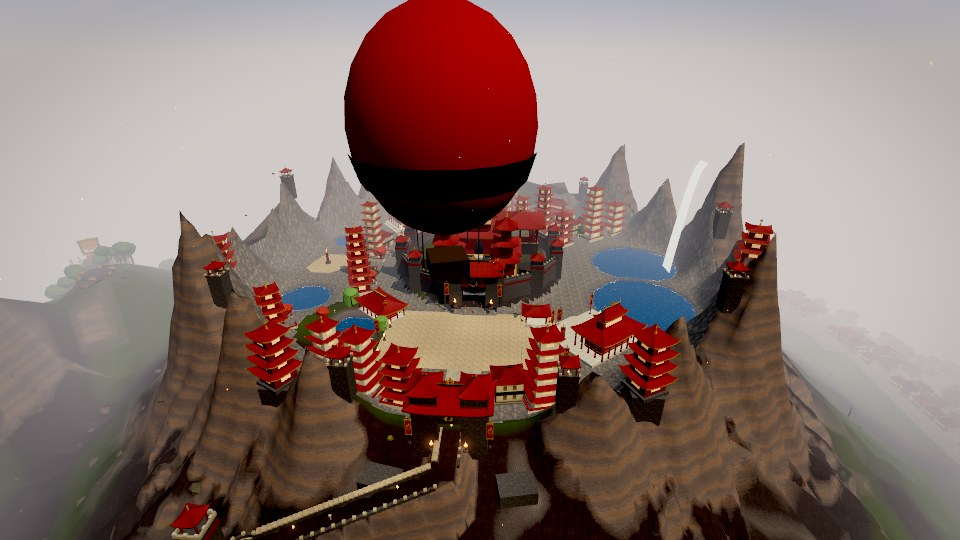
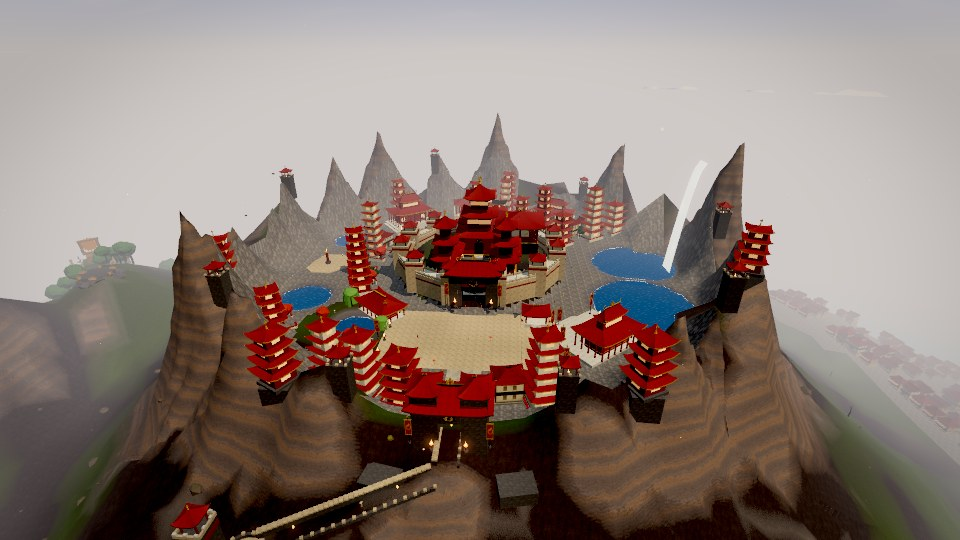
Fire Nation capital: palace ring as a broad pale rampart; steadier crowd test
- The palace's 12-sided ring is now a broad light-stone rampart with a walk on top and
  battlements on both edges, pale towers at the corners (the series' aerial view of the crater);
  the gate gap is widened to keep the grand stair clear
- Harbor City keeps a few more people in view (density targets up)
- region-fire e2e: the people check always hands the camera back and ends its events, so a
  failure there cannot derail the later walks; 16/16

Claude-Session: https://claude.ai/code/session_01K1qhmqdEa64kNkhqVcSUWK

diff --git a/src/world/regions/fire/fnc/palace.ts b/src/world/regions/fire/fnc/palace.ts
@@ -79,25 +79,34 @@ function ringWall(cap: Cap, b: ContentBuilder): void {
   const n = PALACE.sides;
   const R = PALACE.ringR;
   const gateHalf = 5;
+  /** A broad pale rampart (the series' aerial view of the crater): a walk on top, battlements both sides. */
+  const W = 6;
   const vertex = (i: number) => atPolar(90 + (360 / n) * (i + 0.5), R);
   for (let i = 0; i < n; i++) {
     const a = vertex(i - 1), c = vertex(i);
-    const pieces = i === 0 ? [[a, atPolar(90 - 7.6, R)], [atPolar(90 + 7.6, R), c]] : [[a, c]];
+    const pieces = i === 0 ? [[a, atPolar(90 - 9, R)], [atPolar(90 + 9, R), c]] : [[a, c]];
     for (const [p, q] of pieces) {
       const mx = (p.x + q.x) / 2, mz = (p.z + q.z) / 2;
       const len = Math.hypot(q.x - p.x, q.z - p.z);
       const yaw = Math.atan2(q.x - p.x, q.z - p.z);
       const base = Math.min(heightAt(p.x, p.z), heightAt(q.x, q.z)) - 1;
-      b.box('stone_dark', { x: mx, y: base + (PALACE.wallH + 1) / 2, z: mz, sx: 2.4, sy: PALACE.wallH + 1, sz: len, yaw }, { collide: true, walkable: true });
-      b.box(crimsonMat(), { x: mx, y: base + PALACE.wallH - 0.6, z: mz, sx: 2.5, sy: 0.7, sz: len + 0.02, yaw });
-      battlement(b, 'stone_dark', [p, q], { y: () => base + PALACE.wallH + 1, h: 0.9, thick: 0.6, cap: 'stone_tan' });
+      const top = base + PALACE.wallH + 1;
+      b.box('stone_tan', { x: mx, y: base + (PALACE.wallH + 1) / 2, z: mz, sx: W, sy: PALACE.wallH + 1, sz: len, yaw }, { collide: true, walkable: true });
+      b.box('stone_light', { x: mx, y: top - 0.1, z: mz, sx: W + 0.1, sy: 0.22, sz: len + 0.02, yaw }, { castShadow: false });
+      b.box(crimsonMat(), { x: mx, y: base + PALACE.wallH - 1.4, z: mz, sx: W + 0.1, sy: 0.6, sz: len + 0.02, yaw });
+      // Battlements along both edges of the walk.
+      const nx = (q.z - p.z) / len, nz = -(q.x - p.x) / len;
+      for (const side of [-1, 1]) {
+        const o = side * (W / 2 - 0.3);
+        battlement(b, 'stone_tan', [{ x: p.x + nx * o, z: p.z + nz * o }, { x: q.x + nx * o, z: q.z + nz * o }], { y: () => top, h: 0.9, thick: 0.5, cap: 'stone_light' });
+      }
     }
     const v = vertex(i);
     const vb = heightAt(v.x, v.z) - 1;
-    b.block('stone_dark', { x: v.x, y: vb, z: v.z, sx: 5.4, sy: PALACE.wallH + 6, sz: 5.4 }, { collide: true, walkable: true });
-    b.box(crimsonMat(), { x: v.x, y: vb + PALACE.wallH + 4.6, z: v.z, sx: 5.6, sy: 1, sz: 5.6 });
-    roof(b, { x: v.x, y: vb + PALACE.wallH + 8, z: v.z, w: 4.6, d: 4.6, h: 2.8, style: 'pyramid', mat: 'roof_red', trim: 'gold', tips: 0.45, finial: 1.1 });
-    for (const [px, pz] of [[-2, -2], [2, -2], [2, 2], [-2, 2]] as const) b.box('black_lacquer', { x: v.x + px, y: vb + PALACE.wallH + 7, z: v.z + pz, sx: 0.32, sy: 2.2, sz: 0.32 });
+    b.block('stone_tan', { x: v.x, y: vb, z: v.z, sx: W + 1.6, sy: PALACE.wallH + 6, sz: W + 1.6 }, { collide: true, walkable: true });
+    b.box(crimsonMat(), { x: v.x, y: vb + PALACE.wallH + 4.6, z: v.z, sx: W + 1.8, sy: 1, sz: W + 1.8 });
+    roof(b, { x: v.x, y: vb + PALACE.wallH + 8, z: v.z, w: 5.4, d: 5.4, h: 3, style: 'pyramid', mat: 'roof_red', trim: 'gold', tips: 0.45, finial: 1.1 });
+    for (const [px, pz] of [[-2.4, -2.4], [2.4, -2.4], [2.4, 2.4], [-2.4, 2.4]] as const) b.box('black_lacquer', { x: v.x + px, y: vb + PALACE.wallH + 7, z: v.z + pz, sx: 0.32, sy: 2.2, sz: 0.32 });
   }
   const g = atAxis(0, R);
   const gy = heightAt(g.x, g.z);

diff --git a/src/world/regions/fire/fnc/life.ts b/src/world/regions/fire/fnc/life.ts
@@ -70,7 +70,7 @@ export const LIFE = {
  * out of a door or come round a corner the camera is not watching.
  */
 const BUBBLE = 120;
-const BUBBLE_TARGET: Partial<Record<ZoneName, number>> = { harbor: 55, plaza: 70, city: 110, market: 70, park: 30, foundry: 34 };
+const BUBBLE_TARGET: Partial<Record<ZoneName, number>> = { harbor: 60, plaza: 75, city: 130, market: 85, park: 36, foundry: 36 };
 const ZTOWN = Z.harbor | Z.plaza | Z.city | Z.market | Z.park | Z.foundry;
 const MOVABLE = new Set<Role>(['walker', 'shopper', 'porter', 'vendor', 'sitter', 'docker', 'smith']);
 
